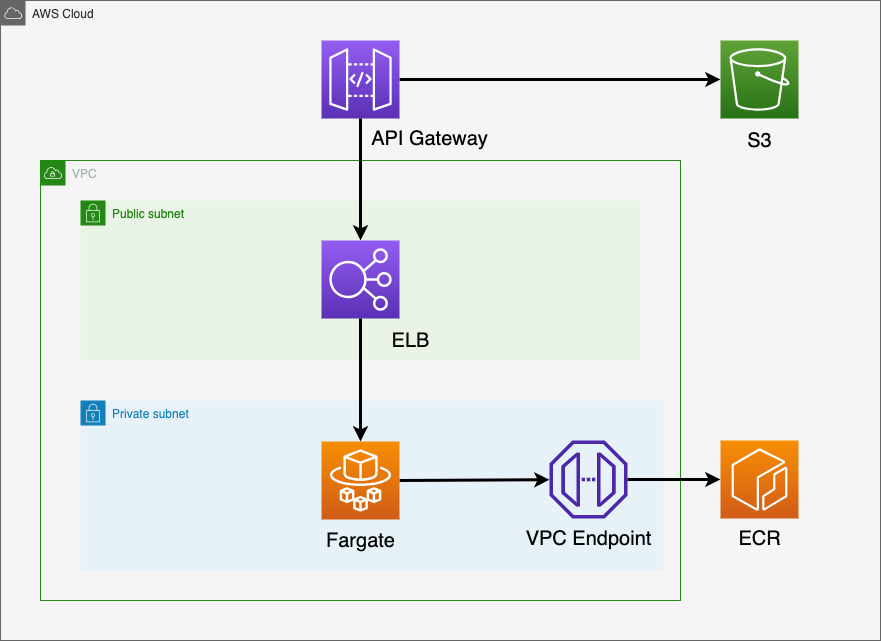
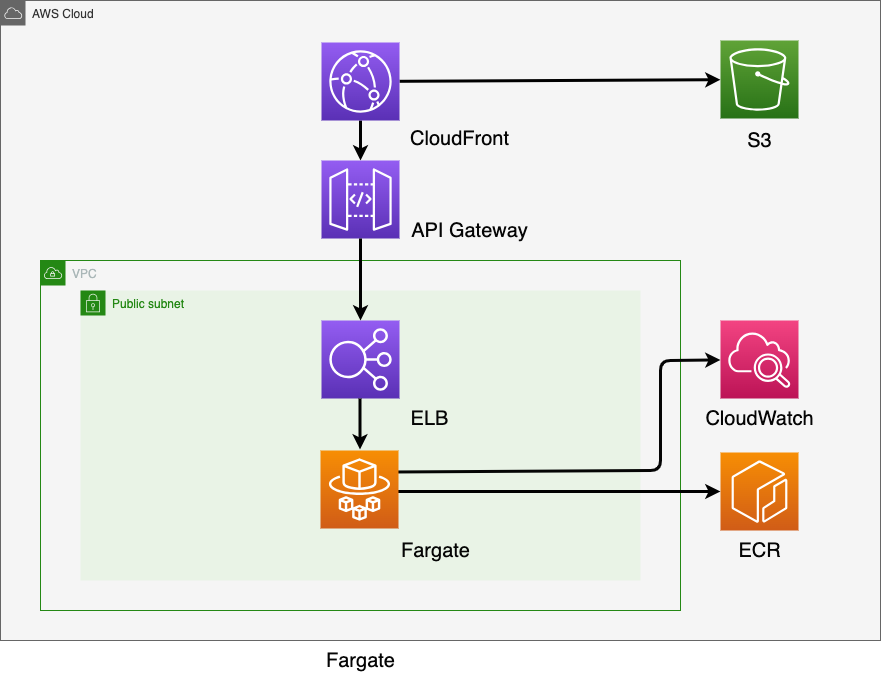
Feature readme (#5)
* make-pic

* write readme

* add infra/bash

diff --git a/README.md b/README.md
@@ -1,2 +1,103 @@
-# qa_chatbot
-QandA_chatbot
+# 高信頼性を実現したAIチャットボット
+
+<p align="center">
+  <img src="sources/qanda.gif" alt="animated" width="400">
+</p>
+
+![Git](https://img.shields.io/badge/GIT-E44C30?logo=git&logoColor=white)
+![gitignore](https://img.shields.io/badge/gitignore%20io-204ECF?logo=gitignoredotio&logoColor=white)
+![AWS](https://img.shields.io/badge/AWS-%23FF9900.svg?logo=amazon-aws&logoColor=white)
+![Terraform](https://img.shields.io/badge/terraform-%235835CC.svg?logo=terraform&logoColor=white)
+![HTML](https://img.shields.io/badge/HTML5-E34F26?logo=html5&logoColor=white)
+![CSS](https://img.shields.io/badge/CSS3-1572B6?logo=css3&logoColor=white)
+![JavaScript](https://img.shields.io/badge/JavaScript-323330?logo=javascript&logoColor=F7DF1E)
+![NodeJS](https://img.shields.io/badge/node.js-6DA55F?logo=node.js&logoColor=white)
+![Nuxtjs](https://img.shields.io/badge/Nuxt-3.11.2-blue.svg?logo=nuxtdotjs&logoColor=#00DC82)
+[![Python](https://img.shields.io/badge/Python-3.12-blue.svg?logo=python&logoColor=blue)](https://www.python.org/)
+![FastAPI](https://img.shields.io/badge/FastAPI-0.68-blue.svg?logo=fastapi)
+![Pandas](https://img.shields.io/badge/pandas-2.2.2-blue.svg?logo=pandas&logoColor=white)
+![PyTorch](https://img.shields.io/badge/PyTorch-2.2.2-blue.svg?logo=PyTorch&logoColor=white)
+[![Docker Compose](https://img.shields.io/badge/Docker%20Compose-v3-blue.svg)](https://docs.docker.com/compose/)
+[![Pytest](https://img.shields.io/badge/pytest-8.1.1-blue.svg)](https://pytest.org/)
+[![jQuery](https://img.shields.io/badge/jQuery-3.7.1-blue.svg?logo=jquery&logoColor=white)](https://jquery.com/)
+[![Bootstrap](https://img.shields.io/badge/Bootstrap-5.3-blue.svg?logo=bootstrap&logoColor=white)](https://getbootstrap.com/)
+![Commit Msg](https://img.shields.io/badge/Commit%20message-Eg-brightgreen.svg)
+![Code Cmnt](https://img.shields.io/badge/code%20comment-Ja-brightgreen.svg)
+
+
+従来のチャットボットでは誤回答のリスクがありましたが、今回開発したAIチャットボットは、最初から質問と答えを用意することで、高信頼性を実現しました。これは、Sentence BERTを使い、質問と回答に対して類似文章検索を行っています。
+
+# インフラ構成
+
+<p align="center">
+  <img src="sources/aws.png" alt="animated" width="400">
+</p>
+
++ Amazon S3 (Simple Storage Service): オブジェクトストレージサービス。静的コンテンツ、アプリケーションデータ、バックアップデータなどを保存するために使用します。
++ Amazon API Gateway: RESTful API を構築、デプロイ、管理するためのサービス。API クライアントからのリクエストを処理し、バックエンドサービスにルーティングします。
++ Amazon CloudWatch: モニタリングおよびログ収集サービス。インフラ、アプリケーション、およびログを監視するために使用します。
++ Amazon CloudFront: コンテンツ配信ネットワーク (CDN)。静的コンテンツを世界中のユーザーに低遅延で配信するために使用します。
++ Amazon Elastic Load Balancing (ELB): トラフィックを複数のロードバランサーに分散させるサービス。アプリケーションの可用性とスケーラビリティを向上させるために使用します。
++ Amazon Fargate: コンテナーサービス。サーバーをプロビジョニングおよび管理することなく、コンテナーをデプロイおよび実行するために使用します。
++ Amazon Elastic Container Registry (ECR): コンテナーイメージを保存および管理するためのプライベートレジストリサービス。
+
+# システム構成
++ FastAPI: Python製の高性能Webフレームワーク。
++ Nuxt.js: Vue.js製のユニバーサルアプリケーションフレームワーク。
+
+# 起動とデプロイ方法
+1. 以下のコードを実行してWebサーバーをビルドします。
+```
+bin/webserver_build
+```
+
+2. 以下のコードを実行してインフラを構築し、APIサーバーをデプロイします。
+```
+bin/terraform_apply
+```
+
+3. webserver/app/.output/publicのアップロード
+    1. ローカル環境で webserver/app/.output/publicディレクトリを開きます。
+    2. S3 バケットに webserver/app/.output/publicディレクトリ配下のファイルをアップロードします。
+
+4. CloudFrontからドメイン名を取得
+    1. AWS マネジメントコンソールで Amazon CloudFrontサービスに移動します。
+    2. ディストリビューション一覧から、目的のディストリビューションを選択します。
+    3. ディストリビューション画面が表示されたら、 ディストリビューションドメイン名をコピーします。
+5. URLにアクセス
+    1. ブラウザを開き、先ほどコピーしたURLにアクセスします。
+
+# 停止
+以下のコードを実行すると停止できます。
+```
+bin/terraform_destroy
+```
+
+# テスト項目
++ GETメソッドによるルートエンドポイントの正常処理検証テスト
++ POSTメソッドによる正常処理テスト (クエリパラメータあり)
++ クエリに不正な値が渡された場合の挙動検証テストケース
++ クエリが省略された場合の挙動検証テストケース
+
+# テスト結果
+
+<p align="center">
+  <img src="sources/test.png" alt="animated">
+</p>
+
+
+
+
+
+
+
+
+
+
+
+
+
+
+
+
+
